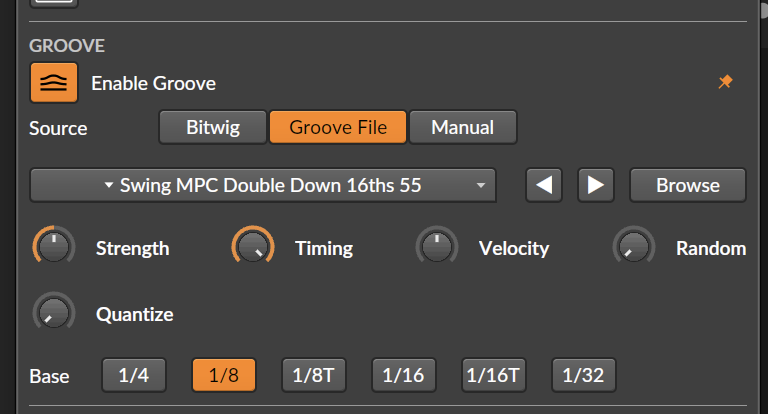
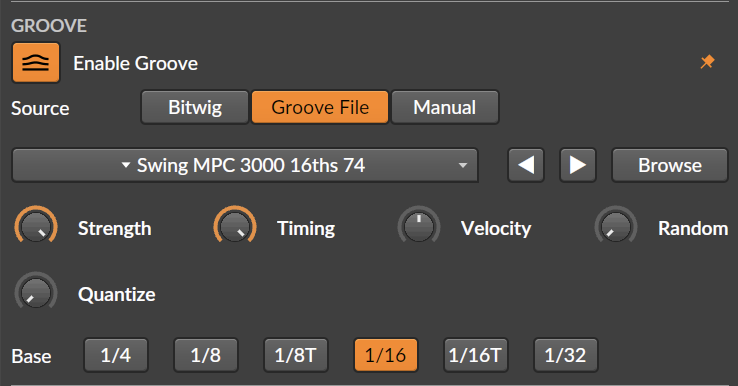
Global Groove Files README: latest screenshots, Groove panel picture

diff --git a/global-groove/README.md b/global-groove/README.md
@@ -2,7 +2,7 @@
 
 .agr groove files and MIDI files in Bitwig's own global Groove, plus a Manual groove you draw yourself.
 
-<img src="images/groove-file.png" width="384" alt="Play menu: Groove File source"> <img src="images/manual.png" width="372" alt="Play menu: Manual groove graph">
+<img src="images/groove-file.png" width="369" alt="Play menu: Groove File source"> <img src="images/manual.png" width="370" alt="Play menu: Manual groove graph">
 
 ## Using it
 
@@ -21,7 +21,9 @@
 
 ## Groove panel
 
-- The Groove button in the bottom bar opens the Manual graph as a panel (a lower-panel tab, or in the view stack with Panel: Streamlined Views): drag its edge to make it as big as you like; right-click the button for its scale.
+<img src="images/groove-panel.png" width="760" alt="The Groove panel: the Manual graph, full size, with four steps selected">
+
+- The Groove button in the bottom bar (<img src="images/groove-button.png" height="16" alt="Groove panel button">, the orange one) opens the Manual graph as a panel (a lower-panel tab, or in the view stack with Panel: Streamlined Views): drag its edge to make it as big as you like; right-click the button for its scale.
 - Under the graph: Use Manual, Undo, Redo, Reset, Copy from Groove File, Save as Groove… and the Base. It edits the same groove as the Play menu.
 
 ## Right-click on notes: Groove
